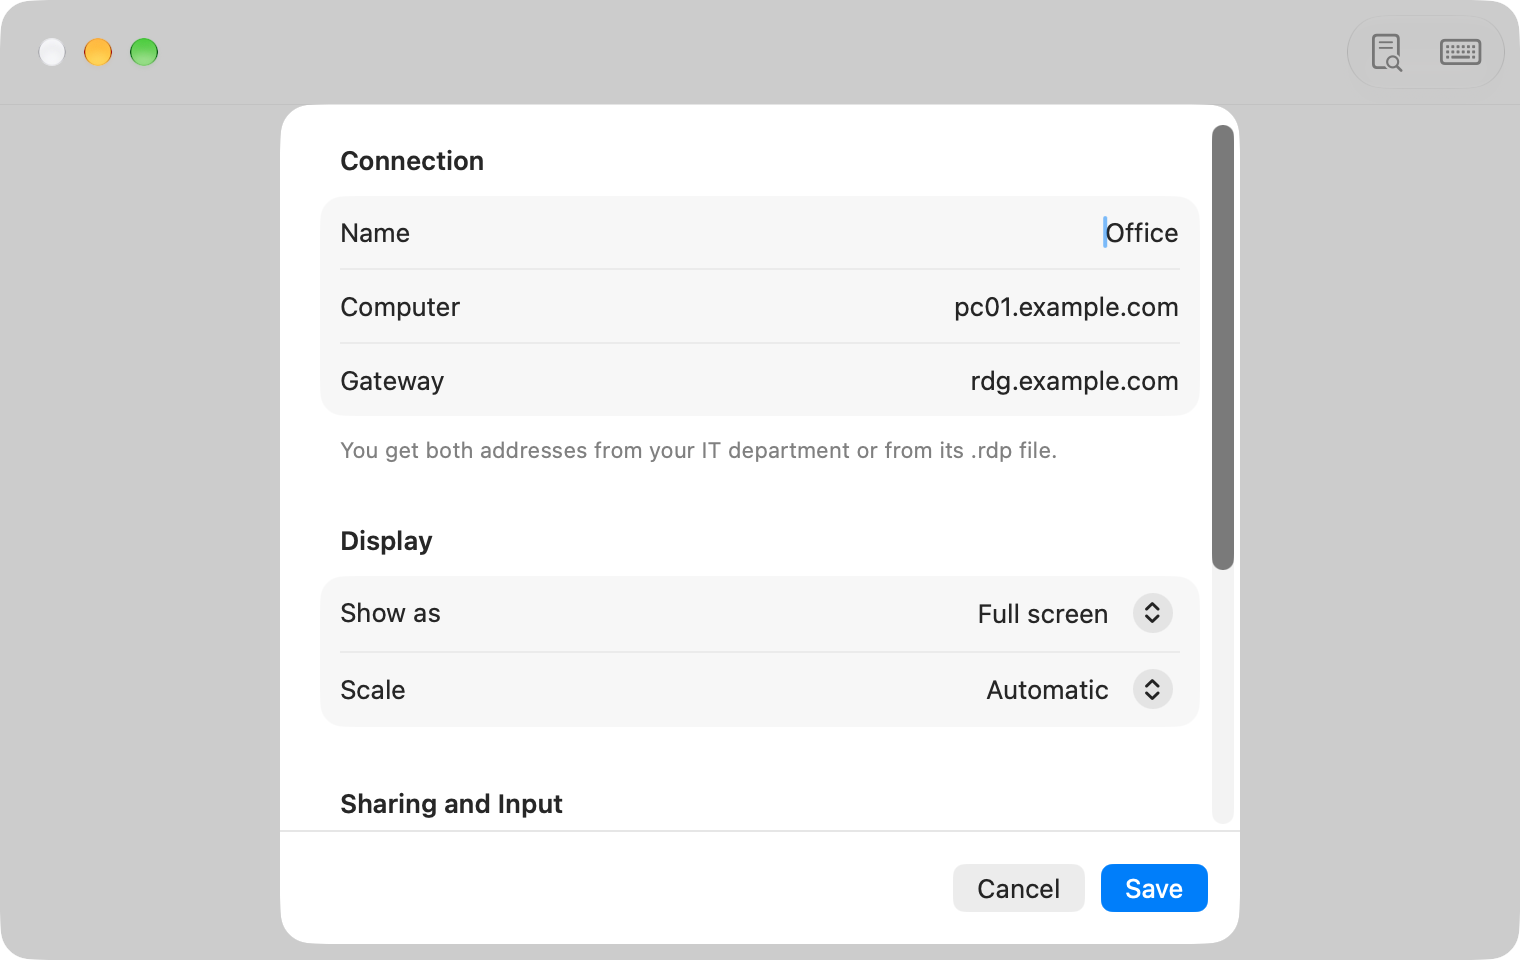
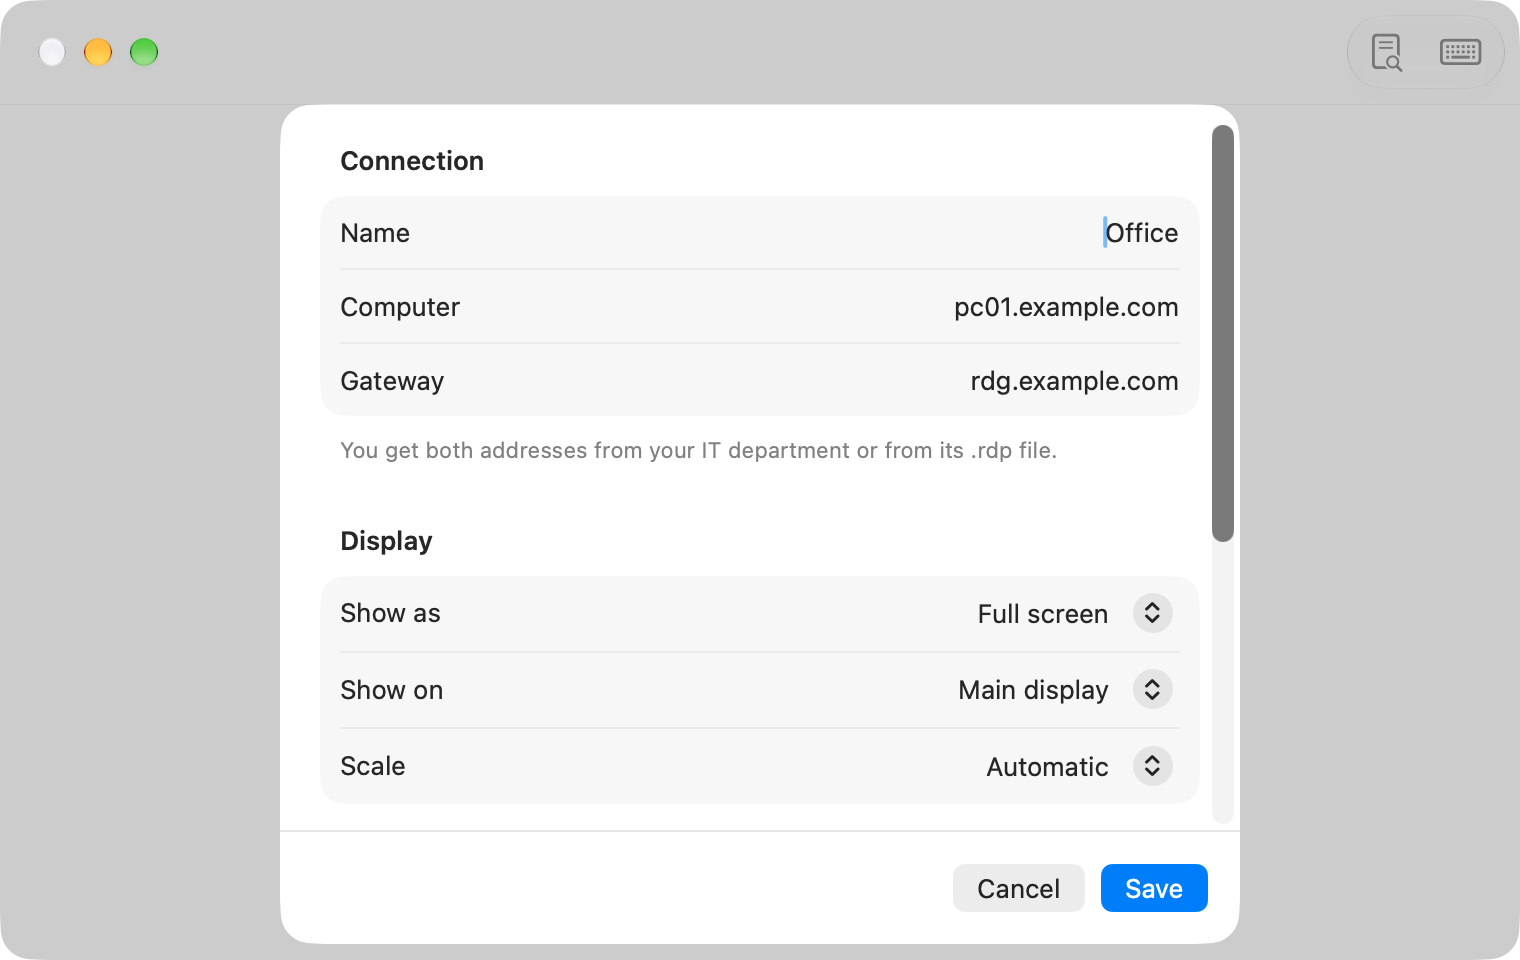
chore: release 0.7.3

diff --git a/CHANGELOG.md b/CHANGELOG.md
@@ -5,6 +5,11 @@ verze se číslují podle [Semantic Versioning](https://semver.org/lang/cs/). Ak
 
 ## [Unreleased]
 
+## [0.7.3] - 2026-11-23
+
+Výběr displeje pro celou obrazovku a opravy klávesnice a zobrazení: ⌘Tab a zkratky Macu už nezasahují
+do Windows a na MacBooku s výřezem v displeji už není hlavní panel Windows useknutý.
+
 ### Přidáno
 - Volba **Zobrazit na** v nastavení připojení: u celé obrazovky s více displeji vyberete, na kterém se vzdálená
   plocha otevře (výchozí je hlavní displej). Když zvolený displej není připojený, otevře se na hlavním.
